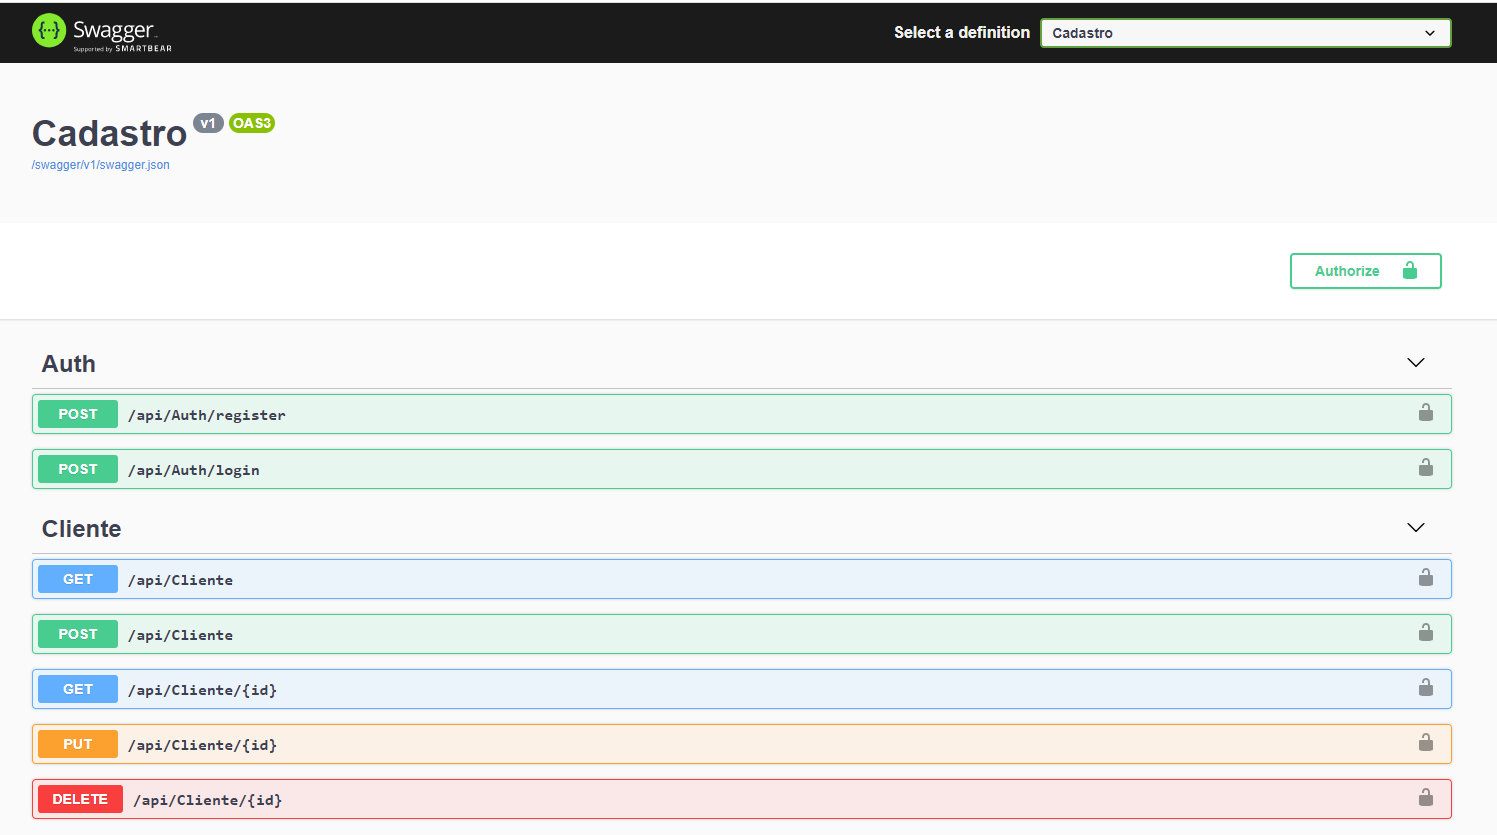
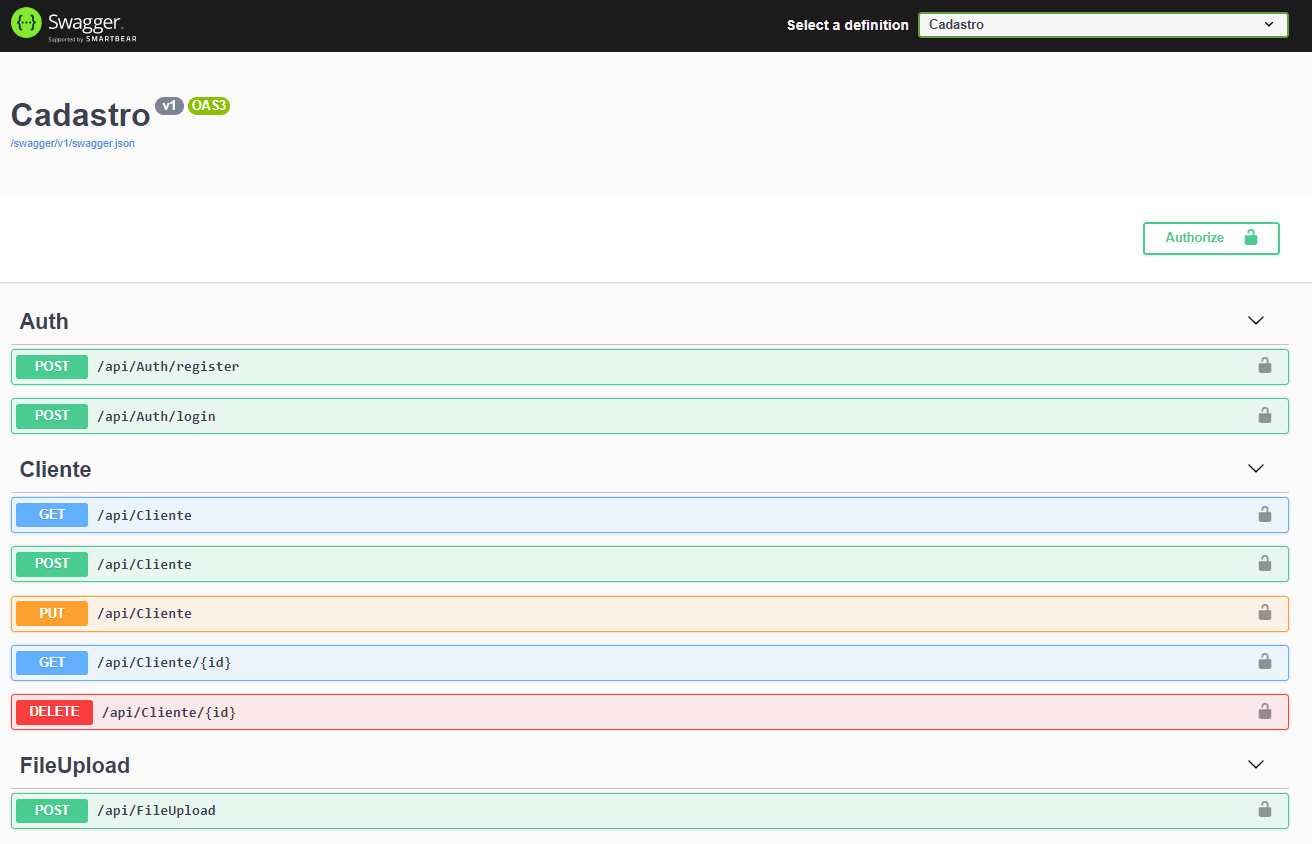
upload de arquivos

Changed region(s): [[0.0, 0.3737, 1.0, 0.9964], [0.0, 0.0, 1.0, 0.218], [0.8438, 0.2491, 0.9688, 0.3425]]

diff --git a/Controllers/FileUploadController.cs b/Controllers/FileUploadController.cs
@@ -1,0 +1,52 @@
+using System;
+using System.Collections.Generic;
+using System.IO;
+using System.Linq;
+using System.Threading.Tasks;
+using CadastroApp.API.Data;
+using CadastroApp.API.Helpers;
+using CadastroApp.API.Models;
+using Microsoft.AspNetCore.Authorization;
+using Microsoft.AspNetCore.Http;
+using Microsoft.AspNetCore.Mvc;
+
+namespace cadastro.Controllers {
+    [Route ("api/[controller]")]
+    [Authorize ()]
+    [ApiController]
+    public class FileUploadController : Controller {
+        private readonly ClienteRepository _repository;
+
+        public FileUploadController (ClienteRepository repository) {
+            this._repository = repository ??
+                throw new ArgumentNullException (nameof (repository));
+        }
+
+        [HttpPost, DisableRequestSizeLimit]
+        [Consumes ("multipart/form-data")]
+        public async Task<string> Post () {
+            try {
+                foreach (var file in Request.Form.Files) {
+                    string folderName = "Upload";
+                    string webRootPath = "C:/Prod/";
+                    string newPath = Path.Combine (webRootPath, folderName);
+                    if (!Directory.Exists (newPath)) {
+                        Directory.CreateDirectory (newPath);
+                    }
+                    if (file.Length > 0) {
+                        string fileName = file.FileName.Trim ('"');
+                        string fullPath = Path.Combine (newPath, fileName);
+                        using (var stream = new FileStream (fullPath, FileMode.Create)) {
+                            file.CopyTo (stream);
+                        }
+                    }
+
+                }
+                return "Upload Successful";
+            } catch (System.Exception ex) {
+                return "Upload Failed: " + ex.Message;
+            }
+
+        }
+    }
+}
